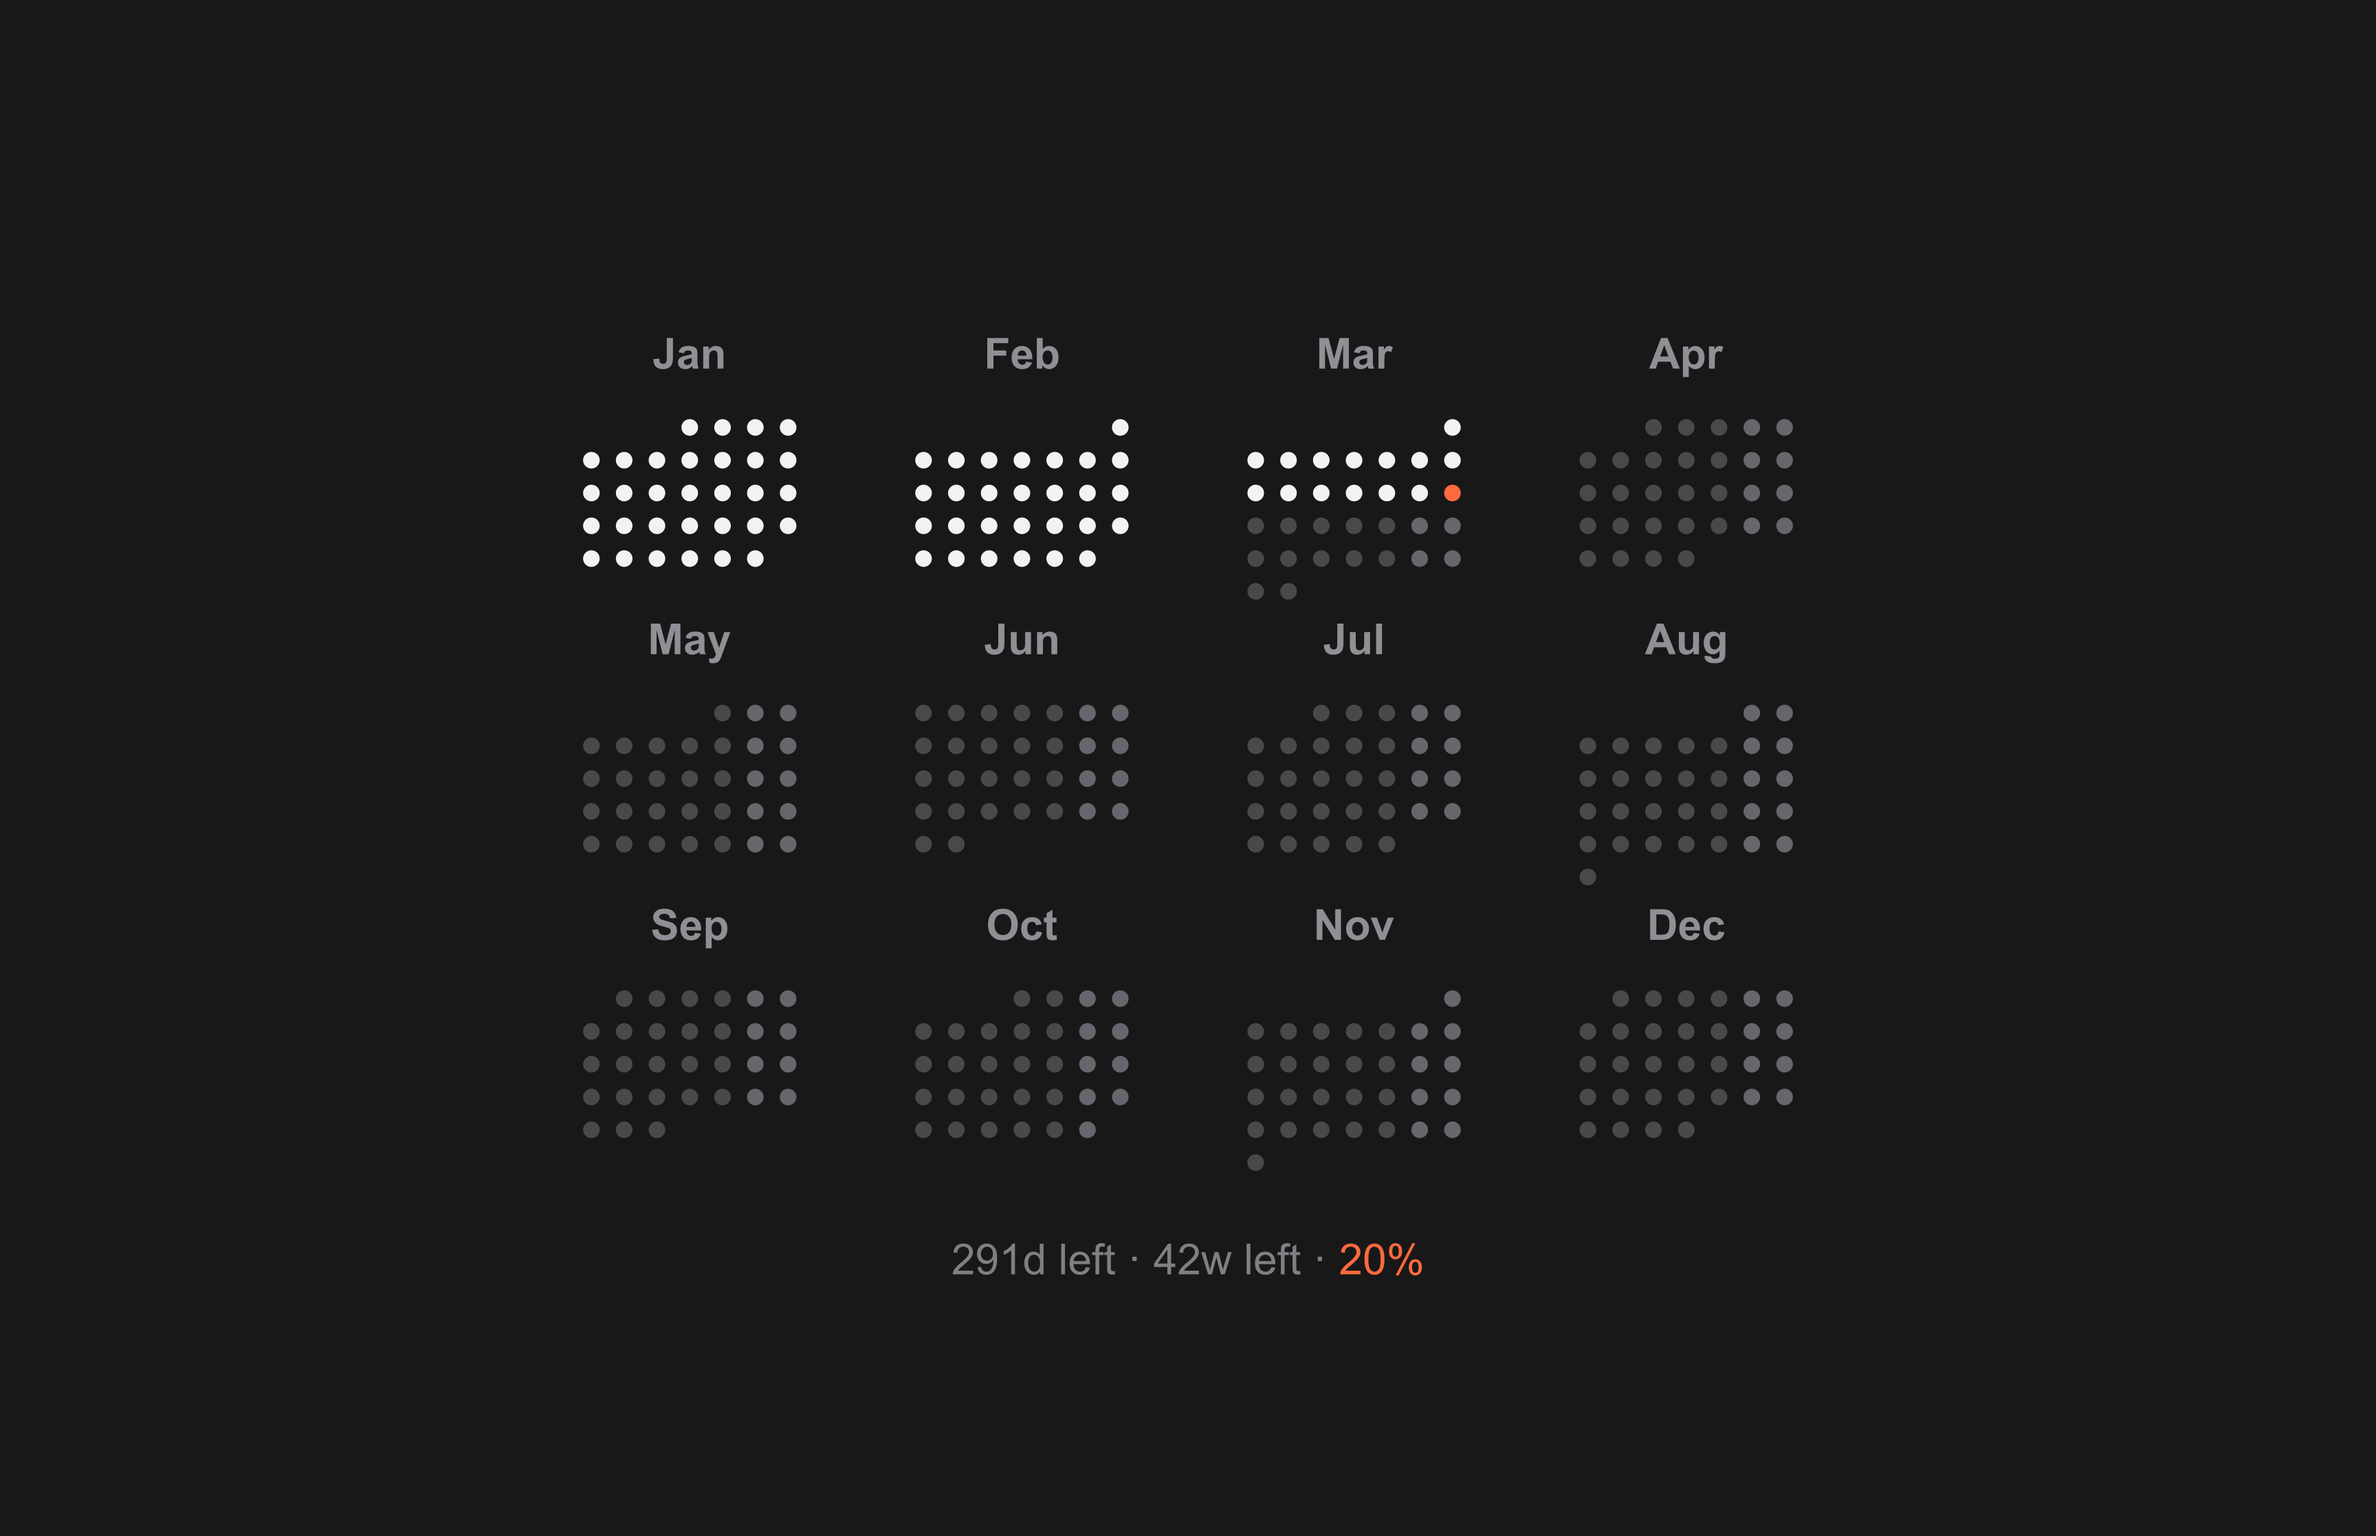
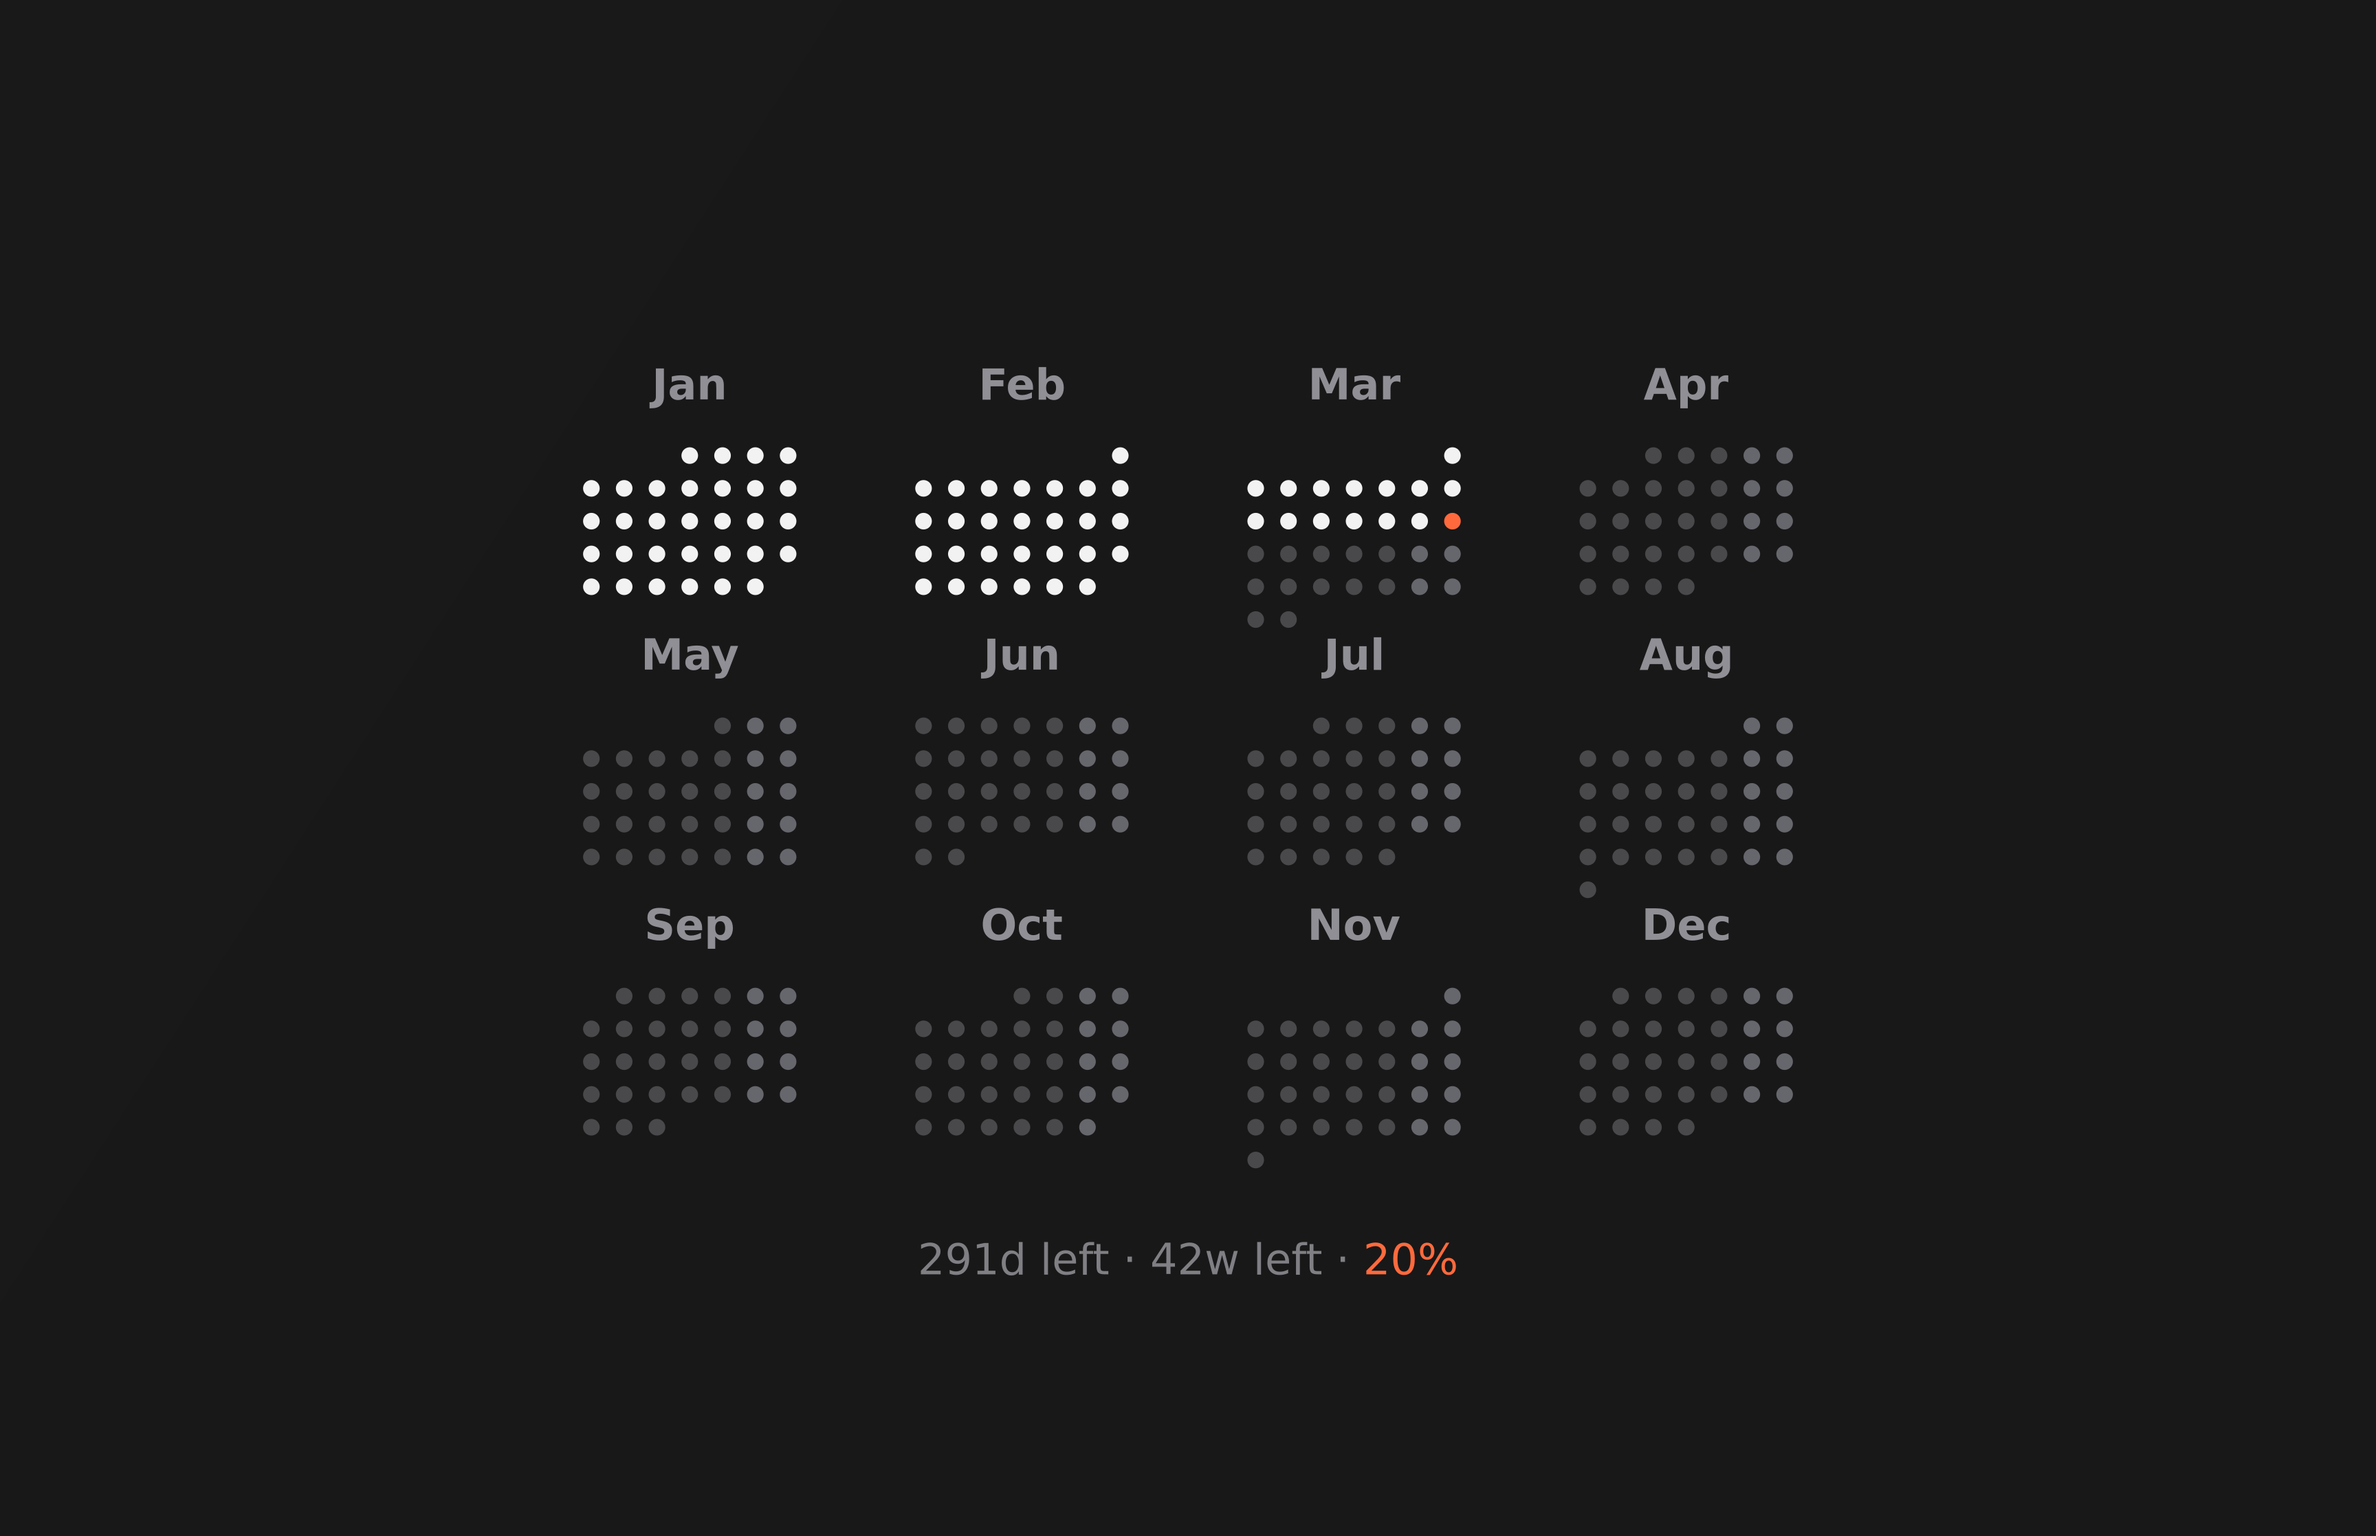
Refine Mac clock-safe calendar layout

diff --git a/configs/mac.js b/configs/mac.js
@@ -12,12 +12,12 @@ module.exports = {
   highlightWeekends: true,
   gradientColors: BACKGROUND_GRADIENT,
   grid: {
-    topPaddingRatio: 0.24,
-    monthGapYRatio: 0.03,
+    topPaddingRatio: 0.26,
+    monthGapYRatio: 0.02,
     monthGapXRatio: 0.05,
     monthLabelSizeRatio: 0.018,
     monthLabelMinPx: 42,
-    monthLabelGapRatio: 1.18,
+    monthLabelGapRatio: 1.12,
     dotSpacingRatio: 0.0138,
     dotRadiusRatio: 0.0035
   },

diff --git a/tests/layout-safety.js b/tests/layout-safety.js
@@ -34,7 +34,7 @@ const cases = [
   {
     name: "mac",
     config: validateWallpaperConfig({ ...macConfig, monthNames: MONTH_NAMES, fontFamily: FONT_FAMILY }),
-    minTopPadding: 530,
+    minTopPadding: 575,
     minGapBetweenCalendarAndProgress: 90,
     minBottomSafeArea: 360
   }
